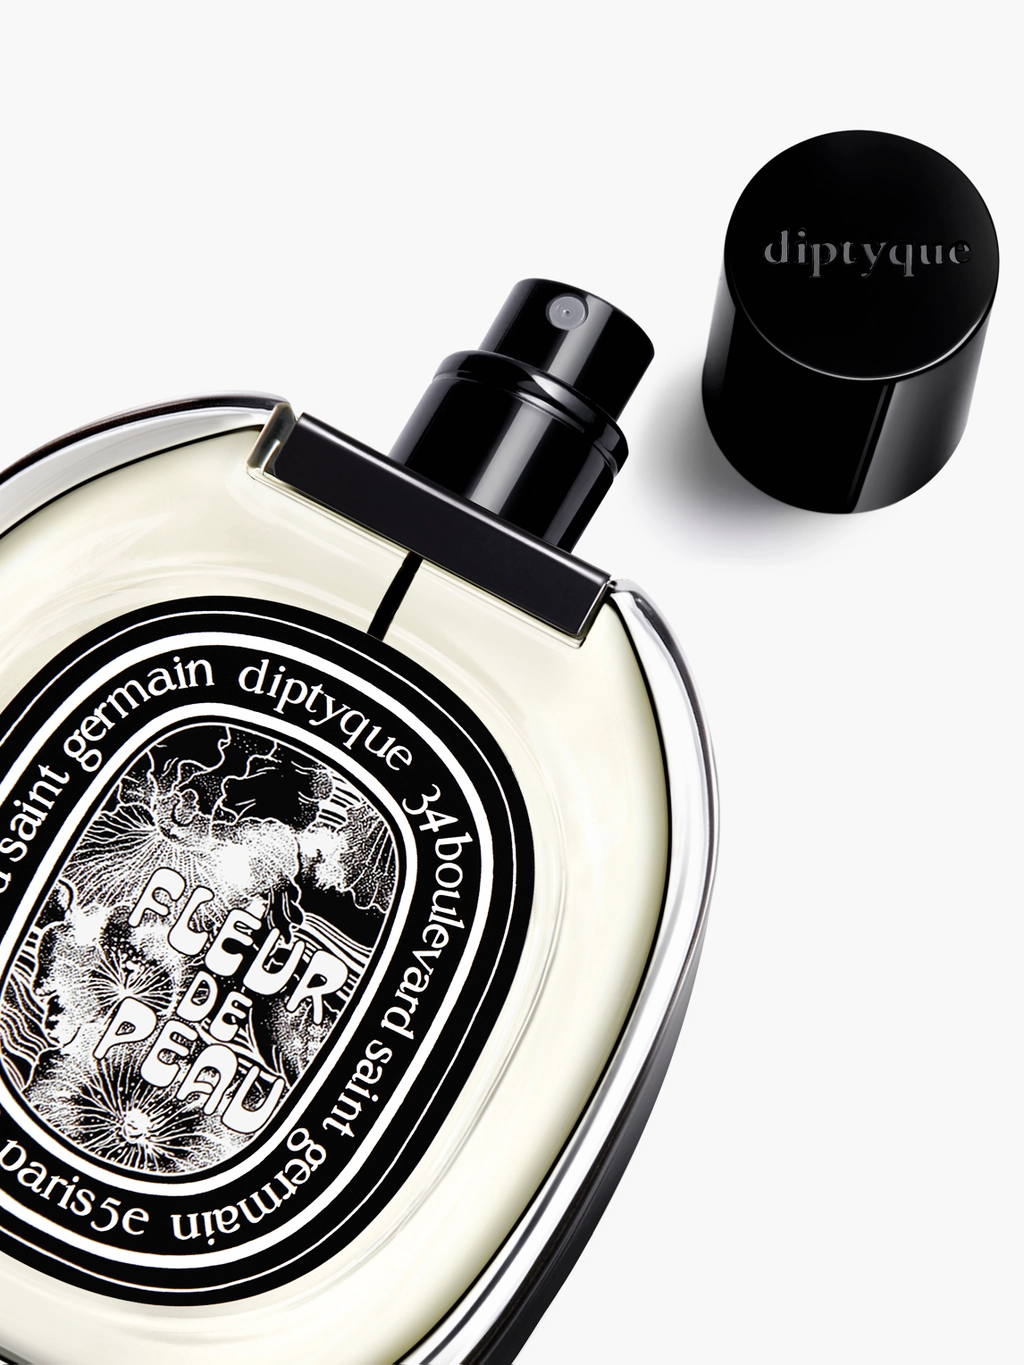
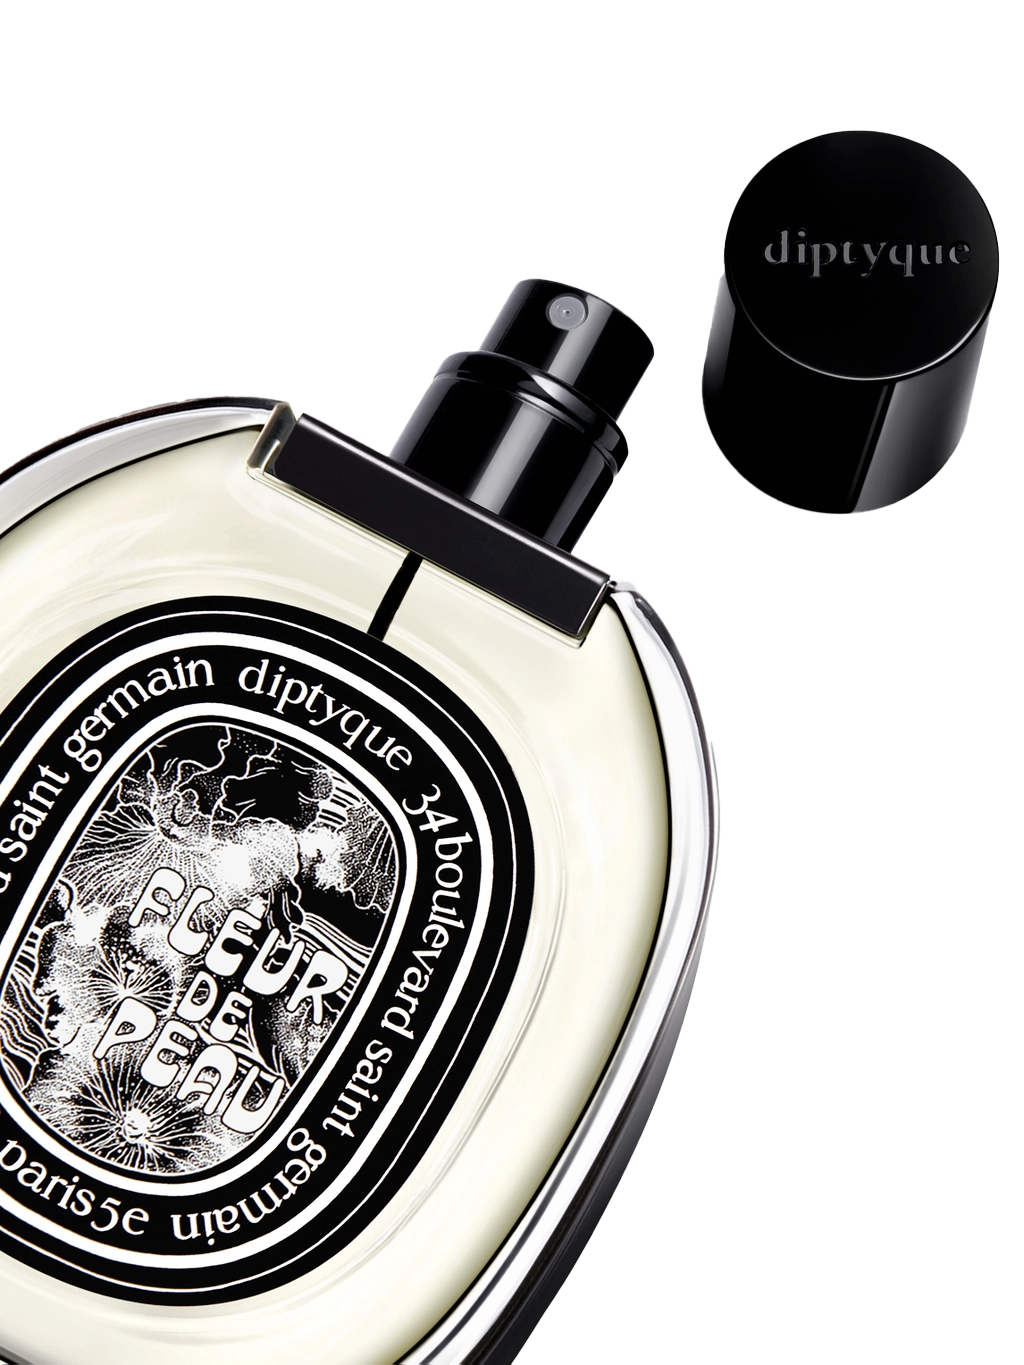
img fixed

diff --git a/dist/css/comm.css b/dist/css/comm.css
@@ -644,6 +644,7 @@ body {
 #swiper-section {
   width: 100%;
   height: 100vh;
+  scroll-snap-type: y mandatory;
 }
 #swiper-section .swiper-slide {
   background: var(--default-text);
@@ -652,7 +653,7 @@ body {
   display: flex;
   justify-content: center;
   align-items: center;
-  scroll-snap-type: x mandatory;
+  scroll-snap-align: start;
 }
 #swiper-section .swiper-slide .slide-wrap {
   background: var(--bg-color);

diff --git a/dist/scss/comm.scss b/dist/scss/comm.scss
@@ -403,6 +403,7 @@ body {
 #swiper-section {
   width: 100%;
   height: 100vh;
+  scroll-snap-type: y mandatory;
 
   .swiper-slide {
     background: var(--default-text);
@@ -411,7 +412,7 @@ body {
     display: flex;
     justify-content: center;
     align-items: center;
-    scroll-snap-type: x mandatory;
+    scroll-snap-align: start;
 
     // 첫번째 슬라이드
     .slide-wrap {

diff --git a/index.html b/index.html
@@ -457,7 +457,7 @@
               </div>
               <div class="swiper-slide inner">
                 <div class="slide-wrap-2">
-                  <img src="./images/slide-fleur-bg.png" alt="" />
+                  <img src="./images/FLEUR-DE-PEAU.png" alt="" />
                   <div class="slide-txt">
                     <p>[ 2 ]</p>
                     <h3>Eau de parfum.</h3>
